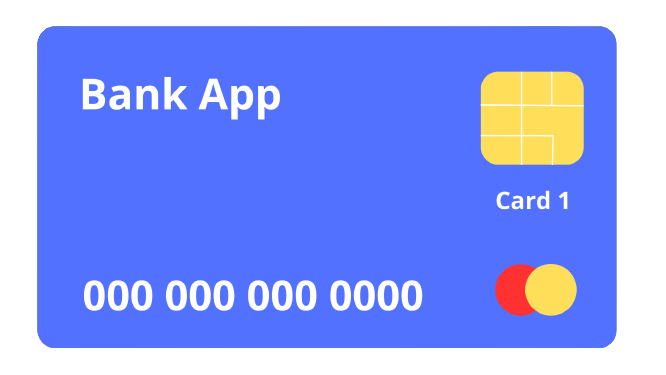
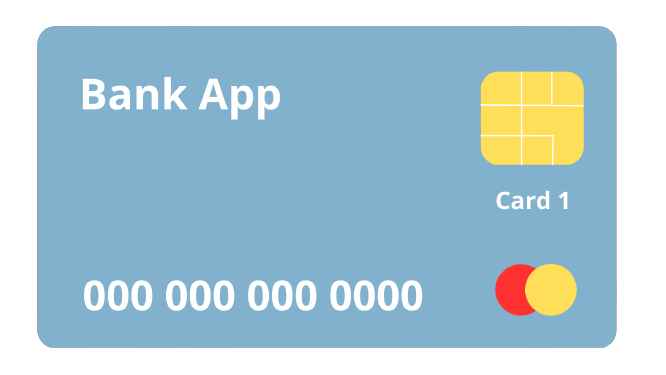
Mudança da palleta de cores, e correções nas animações

diff --git a/src/components/account/Account.css b/src/components/account/Account.css
@@ -14,10 +14,7 @@
     width: 100%;
     height: 60vh;
 
-    background: rgb(15, 9, 134);
-    background: linear-gradient(6deg, rgba(15, 9, 134, 1) 0%, rgba(11, 11, 172, 1) 41%, rgba(0, 56, 255, 1) 100%);
-
-
+    background-color:  #81B1CC;
     display: flex;
     flex-direction: column;
     align-items: center;
@@ -66,12 +63,12 @@
     top: 5px;
     position: relative;
     text-transform: uppercase;
-    color: rgb(43, 84, 219);
+    color: #688fa5;
     font-size: 14px;
 }
 
 .money {
-    color: rgb(8, 8, 88);
+    color:  #65889c;
     font-size: 22px;
     position: relative;
     top: -10px;
@@ -80,7 +77,7 @@
 .tranfer {
     text-decoration: none;
     color: #fff;
-    background-color: rgb(23, 13, 196) ;
+    background-color:  #81B1CC ;
     text-transform: uppercase;
     font-size: .9rem;
     width: 110px;
@@ -88,6 +85,7 @@
     position: relative;
     top: -25px;
     border-radius: 5px;
+    border: 0.5px solid  #81B1CC;
 }
 
 /*------------------------------------*/
@@ -96,7 +94,7 @@
     top: -80px;
     text-align: center;
     text-transform: uppercase;
-    color: rgb(23, 13, 196) ;
+    color:  #81B1CC ;
     font-size: 15px;
 
     
@@ -124,7 +122,7 @@
 
 .fa-circle {
     margin-right: 10px;
-    color: rgb(23, 13, 196) ;
+    color:  #81B1CC;
 }
 
 
@@ -137,7 +135,7 @@
     position: relative;
     font-size: 15px;
     margin-left: 75%;
-    color: rgb(23, 13, 196) ;
+    color:  #81B1CC ;
     display: block;
     top: -25px;
     

diff --git a/src/components/menus/right_menu/RightMenu.js b/src/components/menus/right_menu/RightMenu.js
@@ -10,27 +10,28 @@ const RightMenu = () => {
     return (
         <div className={navbarto ? "RightNav-toggle" : "RightNav"}>
             <i class="bi bi-gear-fill" onClick={() => setNavBarTog(!navbarto)}></i>
-           
-            <h3>
+
+
+            <h3 className={navbarto ? "nav__items-toggle" : ""}>
                 <i className="nav__items bi bi-shield-lock-fill"></i>
                 privacy
             </h3>
-
-            <h3>
+            <h3 className={navbarto ? "nav__items-toggle" : ""}>
                 <i className="nav__items bi bi-credit-card-2-back-fill"></i>
                 <Link className="link_itens" to={"/credit-card"}>
                     Credit Card
                 </Link>
+            </h3 >
+            <h3 className={navbarto ? "nav__items-toggle" :""}>
+                <i className="nav__items bi bi-chat-fill"></i>talk with us
             </h3>
-
-            <h3><i className="nav__items bi bi-chat-fill"></i>talk with us</h3>
-
-            <h3>
+            <h3 className={navbarto ? "nav__items-toggle" :""}>
                 <i className="nav__items bi bi-box-arrow-right"></i>
                 <Link className="link_itens" to={"/"}>
                     log out
                 </Link>
             </h3>
+
         </div>
     )
 }

diff --git a/src/components/menus/left_menu/LeftMenu.css b/src/components/menus/left_menu/LeftMenu.css
@@ -1,31 +1,42 @@
 .navbar {
-    background-color: rgb(23, 13, 196) ;
+    background-color:  #81B1CC;
     height: 100vh;
-    width: 40%;
+    width: 50%;
     position: fixed;
     z-index: 4;
+
+    transition: 0.6s;
 }
 
 .navbar-toggle {
-    background-color: rgb(23, 13, 196) ;
+    background-color: #81B1CC ;
     height: 100vh;
     width: 0;
     z-index: 9999;
     position: fixed;
+
+
+    transition: 0.6s;
 }
 
 .navbar_itens {
     display: flex;
     flex-direction: column;
-    position: relative;
-    margin-left: 10%;
+    position: absolute;
+    margin-left: 20%;
     top: 15%;
     color: #ffff;
+
+
+    transition: all 1s;
+
 
 }
 
 .navbar_itens-toggle {
-    display: none;
+    visibility: hidden;
+    color: transparent;
+ 
 }
 
 .navbar_itens>h3 {
@@ -39,12 +50,14 @@
     margin-right: 10px;
 }
 
-.bi-list {
+
+.style {
     position: fixed;
-    z-index: 999;
+    z-index: 9999999999999;
     color: #fff;
     font-size: 30px;
     top: 20px;
     left: 10px;
     cursor: pointer;
+    transition: all 0.7s;
 }

diff --git a/src/components/menus/right_menu/RightMenu.css b/src/components/menus/right_menu/RightMenu.css
@@ -11,21 +11,28 @@
 }
 
 .RightNav {
-    background-color: rgb(23, 13, 196)  ;
+    background-color:  #81B1CC ;
     height: 100vh;
     width: 45%;
     z-index: 4;
-    float: right;
     position: fixed;
-    margin-left: 55%;
+    left: 210px;
+
+    transition: 0.7s;
 }
+
 .RightNav-toggle {
-    background-color: rgb(23, 13, 196) ;
+
+    left: 420px;
+    position: fixed;
+
+    background-color:  #81B1CC ;
     height: 100vh;
-    width: 0;
+    width: 45%;
     z-index: 4;
-    float: right; 
-    overflow: hidden;
+    position: fixed; 
+
+    transition: 0.7s;
 }
 
 .RightNav >h3 {
@@ -40,13 +47,21 @@
     position: relative;
     margin-left: 10%;
     margin-right: 10px;
+
 }
 
 .nav__items-toggle {
     display: none;
+   
+    
 }
 
 .link_itens {
     color: #fff;
     text-decoration: none;
+}
+
+.bi-gear-fill:active{
+    transition: 0.7s;
+    transform: rotate(100deg);
 }

diff --git a/src/components/home/home.css b/src/components/home/home.css
@@ -13,9 +13,7 @@ HOME
 TOP SIDE
 */
 .top__side {
-    background: rgb(15, 9, 134);
-    background: linear-gradient(6deg, rgba(15, 9, 134, 1) 0%, rgba(11, 11, 172, 1) 41%, rgba(0, 56, 255, 1) 100%);
-
+   background-color:  #81B1CC;
     top: -91px;
     position: relative;
     width: 100%;
@@ -69,7 +67,7 @@ BOTTOM SIDE
     width: 40%;
     height: 40px;
     margin-left: 30%;
-    background-color:  rgb(23, 13, 196);
+    background-color:   #81B1CC;
     border-radius: 5px;
     border: none;
 }

diff --git a/src/components/menus/left_menu/LeftMenu.js b/src/components/menus/left_menu/LeftMenu.js
@@ -6,7 +6,7 @@ const LeftMenu = () => {
 
     return (
         <>
-            <i class="bi bi-list" onClick={() => setNavbar(!navbar)}></i>
+            <i class={navbar ? "bi bi-list style" : "bi bi-x-lg style"} onClick={() => setNavbar(!navbar)}></i>
             <div className={navbar ? "navbar-toggle" : "navbar"  }>
                 <div className={navbar ? "navbar_itens-toggle" : "navbar_itens"}>
                     <h3><i class="nav__item bi bi-person" ></i>account</h3>

diff --git a/src/components/bank-functions/credit-card/my-card/MyCreditCard.css b/src/components/bank-functions/credit-card/my-card/MyCreditCard.css
@@ -5,7 +5,7 @@
 }
 
 .top__info {
-    background-color: rgba(11, 11, 172, 1);
+    background-color:  #81B1CC;
     width: 100%;
     height: 15%;
 }
@@ -41,7 +41,7 @@
 .card1, .card2 {
     text-align: center;
     padding: 10px;
-    background-color: rgba(11, 11, 172, 1);
+    background-color:  #81B1CC;
     border: none;
     color: #fff;
     border-radius: 5px;

diff --git a/src/components/bank-functions/credit-card/add-new/AddCard.css b/src/components/bank-functions/credit-card/add-new/AddCard.css
@@ -41,7 +41,7 @@
     text-align: center;
     text-align: center;
     padding: 8px;
-    background-color: rgba(11, 11, 172, 1);
+    background-color:  #81B1CC;
     border: none;
     color: #fff;
     border-radius: 5px;
